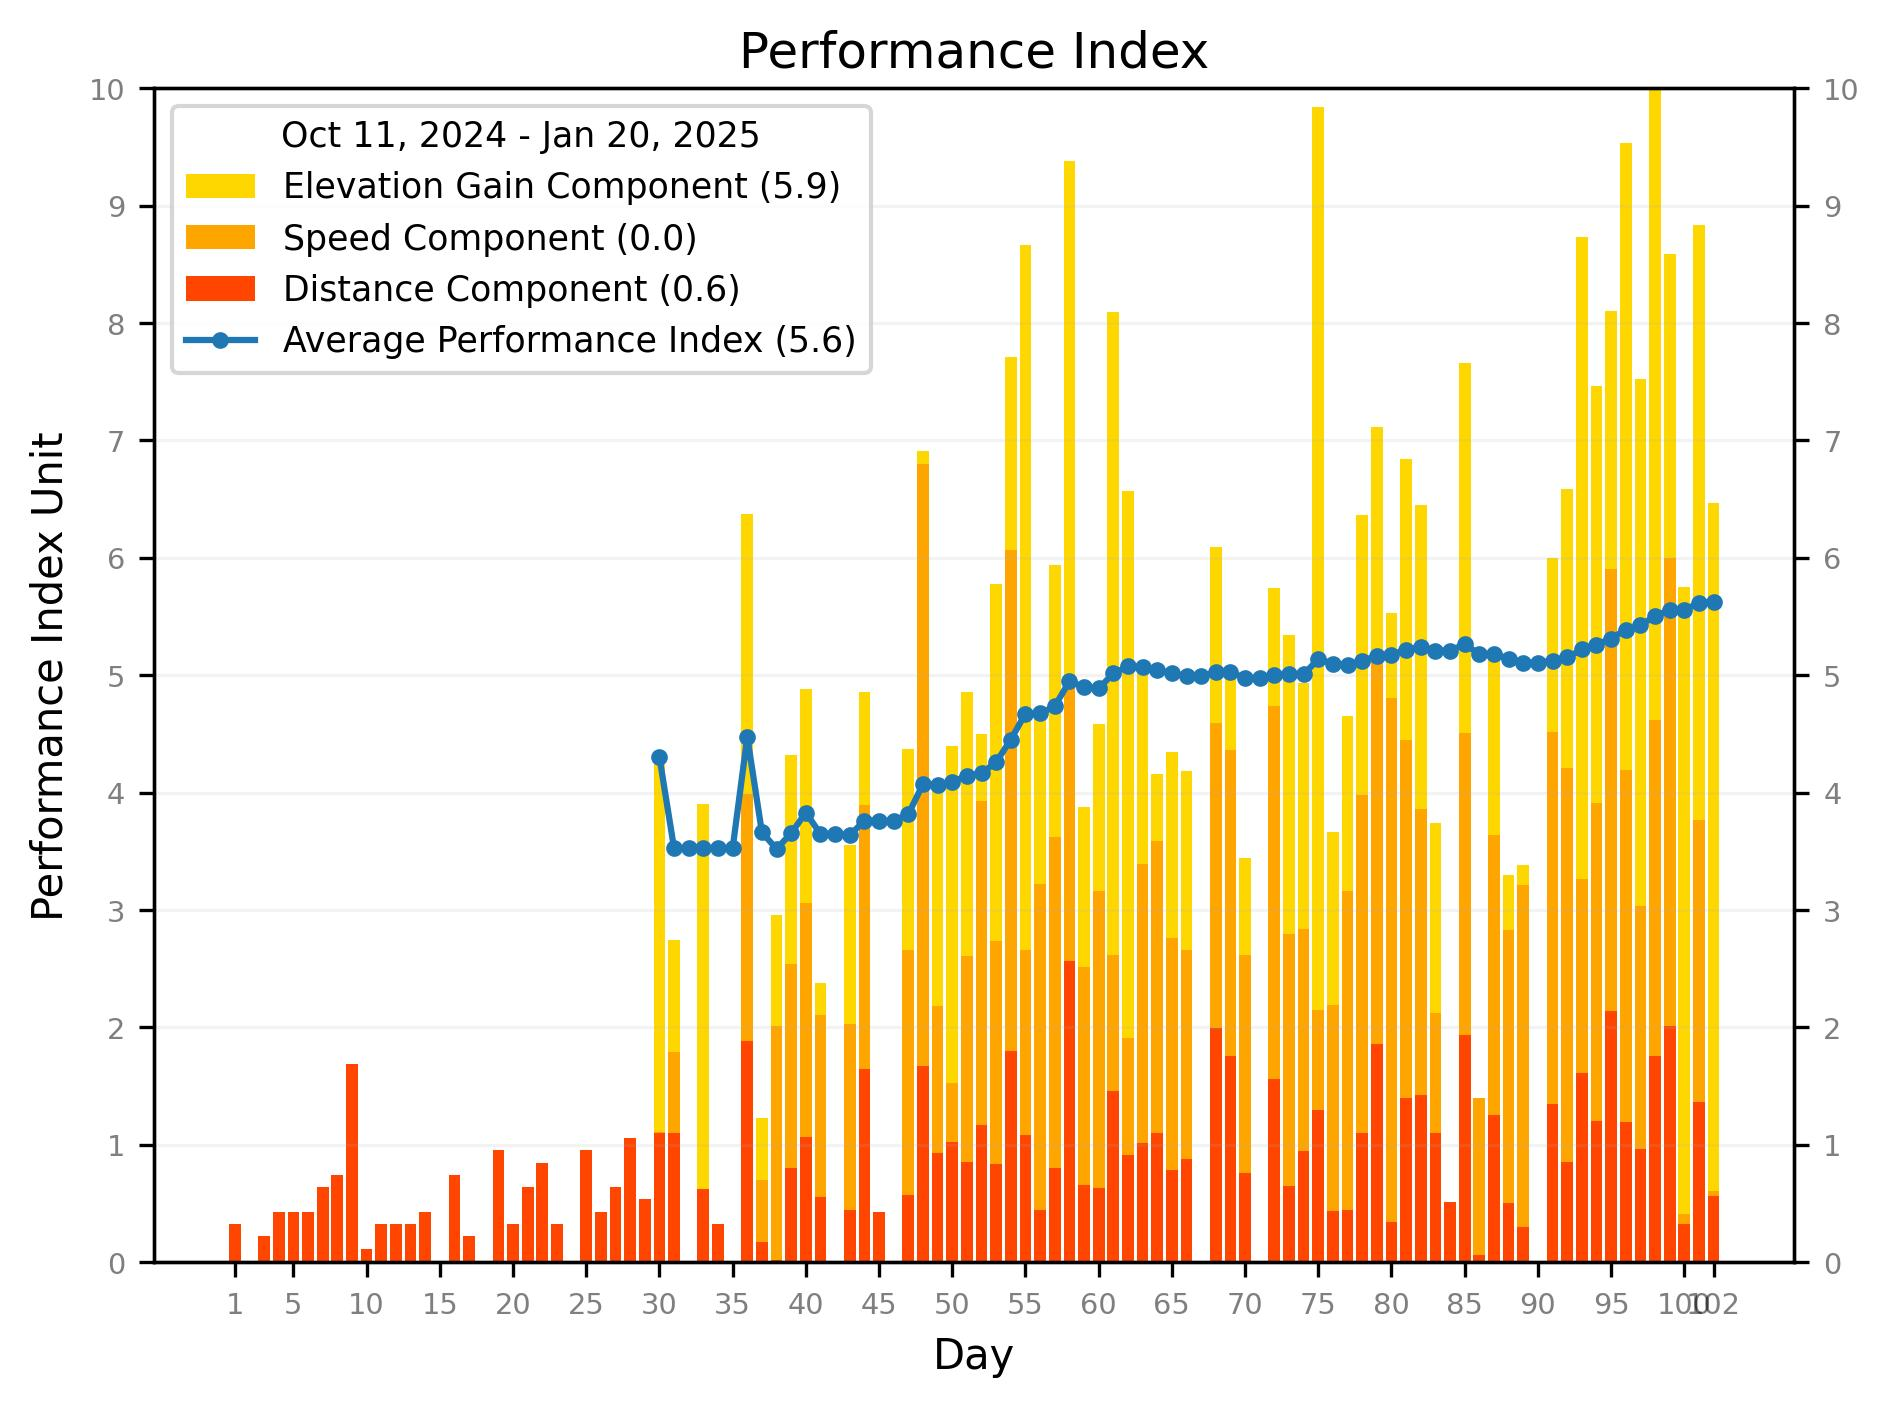
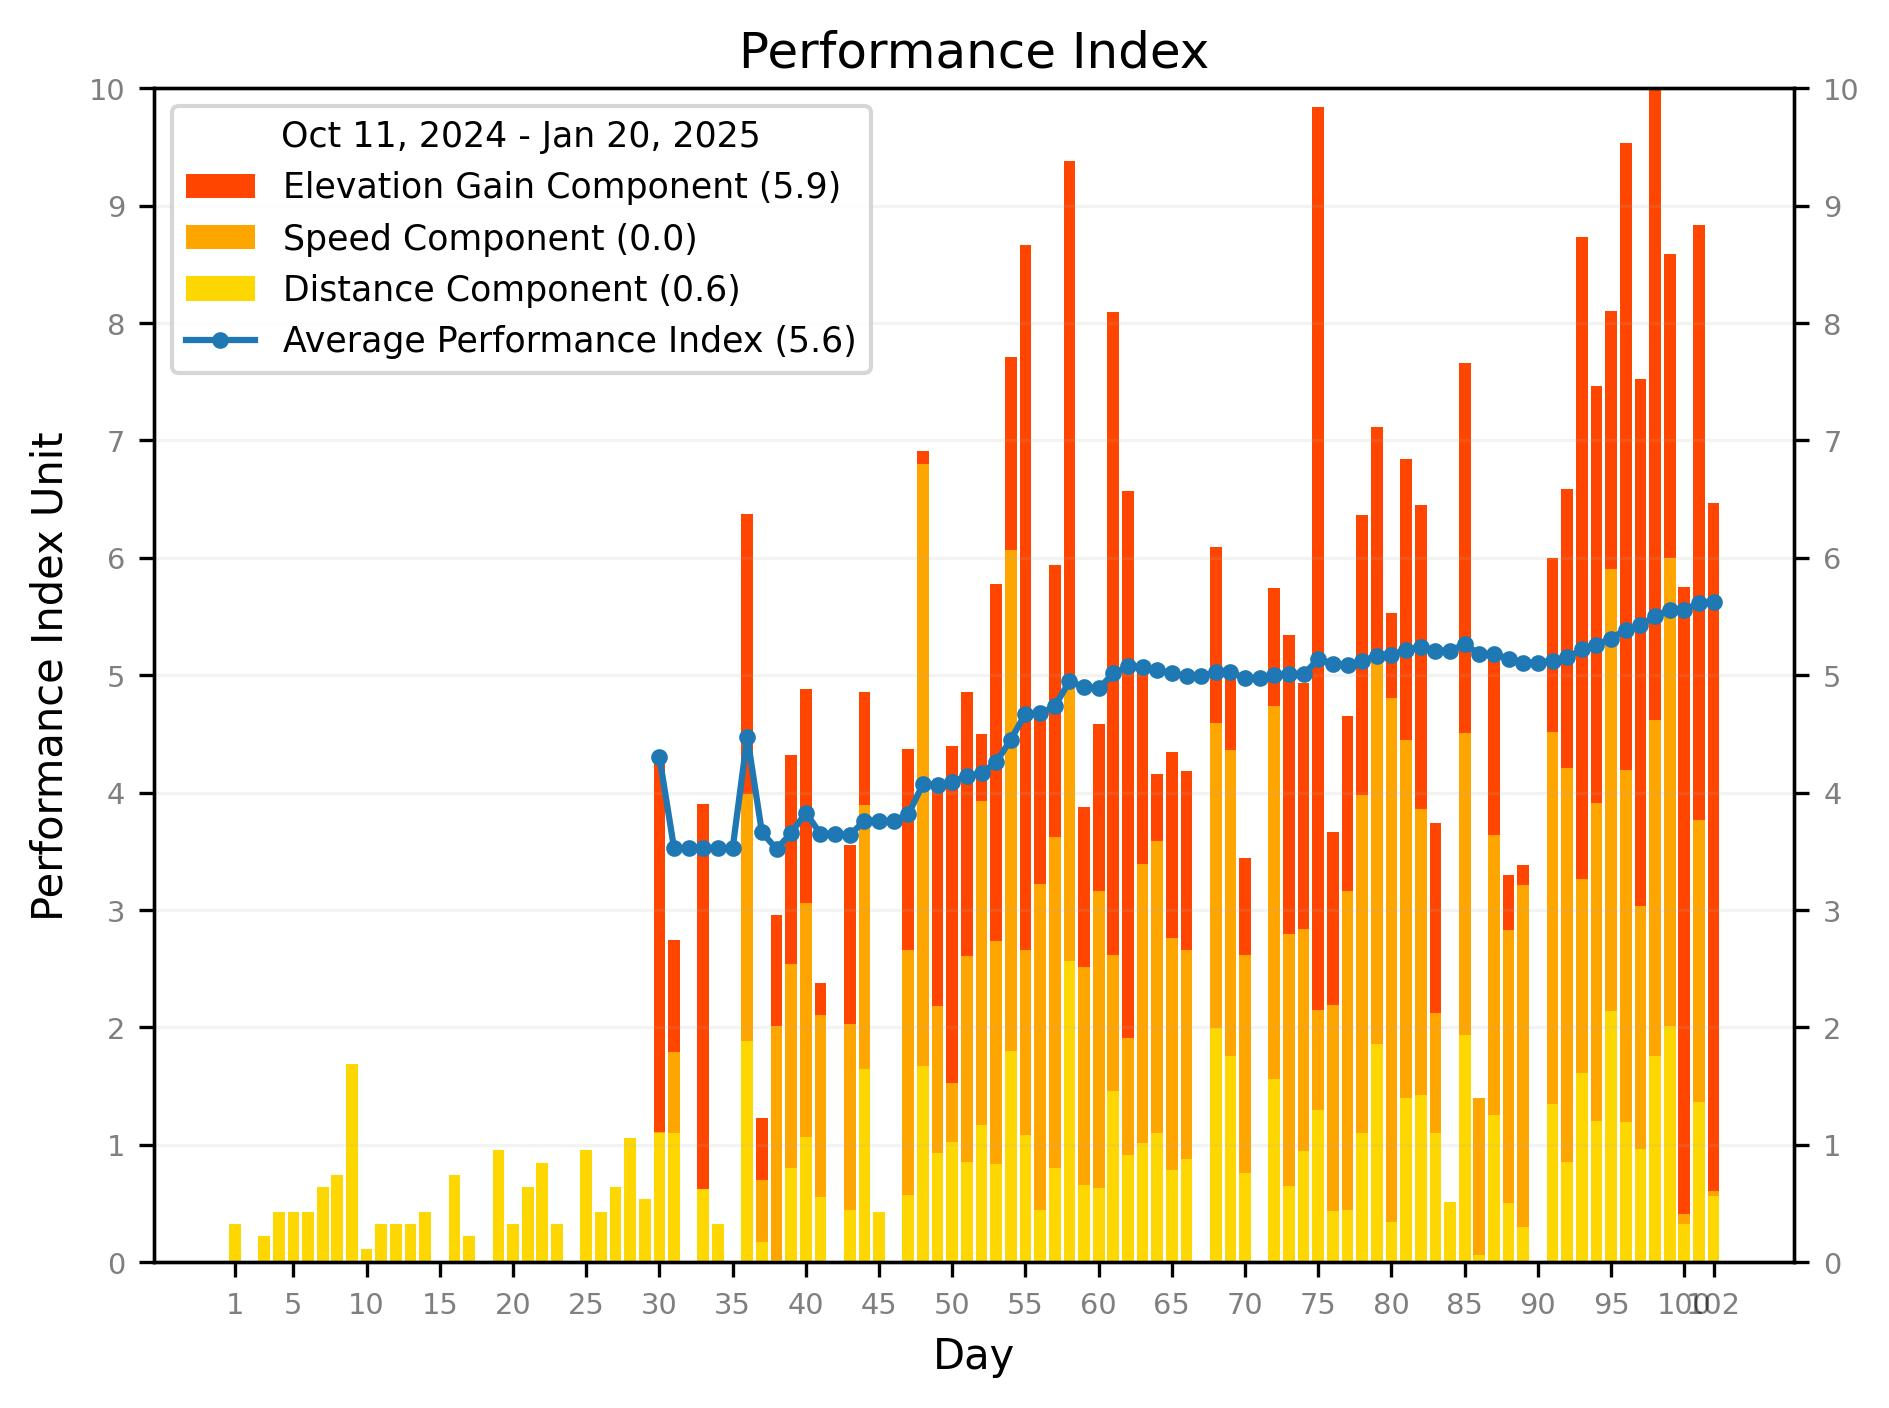
update colors on performance graph

Changed region(s): [[0.1249, 0.0625, 0.937, 0.9062], [0.0937, 0.1875, 0.1562, 0.2188], [0.0937, 0.125, 0.1562, 0.1562]]

diff --git a/src/biking/graph/performance.py b/src/biking/graph/performance.py
@@ -90,7 +90,7 @@ class PerformanceGraph(Graph):
 
         d_factor_y, s_factor_y, e_factor_y = factors_y
 
-        bar = ax1.bar(x, e_factor_y, bottom=np.array(d_factor_y) + np.array(s_factor_y), color="gold")
+        bar = ax1.bar(x, e_factor_y, bottom=np.array(d_factor_y) + np.array(s_factor_y), color="orangered")
         self.handles.append(bar)
         self.labels.append(f"Elevation Gain Component ({e_factor_y[-1]:0.1f})")
 
@@ -98,7 +98,7 @@ class PerformanceGraph(Graph):
         self.handles.append(bar)
         self.labels.append(f"Speed Component ({s_factor_y[-1]:0.1f})")
 
-        bar = ax1.bar(x, d_factor_y, color="orangered")
+        bar = ax1.bar(x, d_factor_y, color="gold")
         self.handles.append(bar)
         self.labels.append(f"Distance Component ({d_factor_y[-1]:0.1f})")
 
